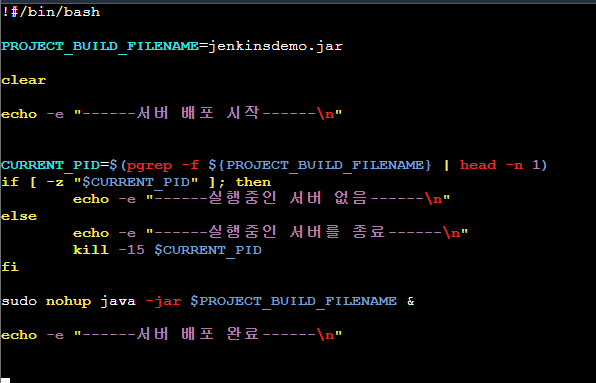
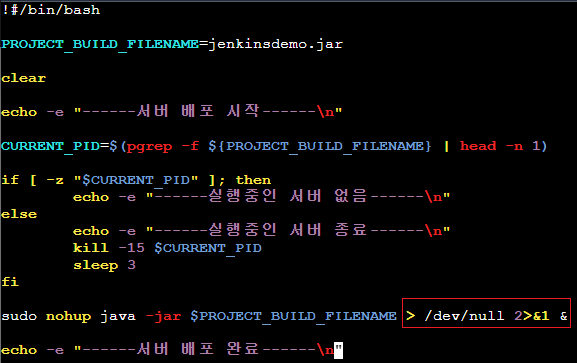
정리

diff --git a/Data/Document/Jenkins [SpringBooot].md b/Data/Document/Jenkins [SpringBooot].md
@@ -14,11 +14,20 @@ WAS서버에 빌드 파일을 전달해 서버 배포 <br>
 1. AWS EC2 Ubuntu 생성 및 환경 설정 [AWS EC2 생성](../Document/EC2.md)
 2. Springboot 프로젝트 생성 [SpringBoot 프로젝트 생성](../Document/Local%20%5BSpringBoot%5D.md)
 3. SpringBoot 프로젝트 Github에 저장
-4. Jenkins 설치 완료 [Jenkins 설치](../Document/Jenkins.md)
+4. Jenkins 설치 완료 [Jenkins 설치](../Document/Jenkins.md)<br>
+
+---
+
+[주의사항]<br>
+현재 실습용 SpringBoot 프로젝트 자바 버전은 openjdk17이다.<br>
+Jenkins서버에서 프로젝트를 빌드할시 openjdk17를 사용한다.<br>
+본인 SpringBoot 프로젝트에 맞춰 자바 버전을 설치 해야된다.<br>
+
+---
 
 ## 환경
 
-1. Jenkins 서버용 EC2
+1. Jenkins 서버용 EC2 [Java SE-17](https://www.oracle.com/java/technologies/javase/jdk17-archive-downloads.html)<br>
 2. WAS 서버용 EC2
    [Java SE-17](https://www.oracle.com/java/technologies/javase/jdk17-archive-downloads.html)<br>
 3. VSCode<br>
@@ -180,6 +189,8 @@ Build폴더자체가 생성되지 않음)<br>
 Jenkins서버에서 빌드한 jar파일을 publish over ssh 플러그인을
 활용하여 WAS 서버에 전달해 배포<br>
 
+### (1) publish over ssh 설정
+
 ![img](../Img/jenkinsprj34.png)<br>
 (플러그인에서 publish over ssh 설치)<br>
 
@@ -208,11 +219,21 @@ Remote Directory : WAS서버에 접속하면 수행할 폴더 장소<br>
 
 ![img](../Img/jenkinsprj39.png)<br>
 (내려보면 Build Steps 항목이 있음<br>
-Add build step을 눌러 Invoke Gradle script 클릭)<br>
+Add build step을 눌러 Execute shell 클릭)<br>
 
 ![img](../Img/jenkinsprj40.png)<br>
-(현재 Springboot 프로젝트내에 gradle Wrapper가 있기때문에<br>
-Use Gradle Wrapper를 클릭하고 Tasks에서 clean build 입력)<br>
+
+> chmod +x gradlew
+
+(gradlew 사용 권한을 주기 위해 입력)<br>
+
+![img](../Img/jenkinsprj54.png)<br>
+(Invoke Gradle script도 찾아 추가한뒤<br>
+Use Gradle Wrapper를 체크 : 현재 Springboot 프로젝트내에 gradle Wrapper가 있음<br>
+그리고 각 tasks에 clean, build 입력)<br>
+
+굳이 이렇게 나눠놓는 이유 : Ec2 프리티어가 느려서 명령어 수행을
+순차적으로 수행하기 위해 구성<br>
 
 ![img](../Img/jenkinsprj41.png)<br>
 (빌드 후 조치에서 "Send build artifacts over SSH"를 클릭)
@@ -231,7 +252,7 @@ WAS 서버의 해당 경로에 publish.sh가 있어야됨<br>
 
 작성후 저장<br>
 
-### (1) was 서버에 publish.sh 스크립트 작성
+### (2) was 서버에 publish.sh 스크립트 작성
 
 ![img](../Img/jenkinsprj43.png)<br>
 (publish.sh 스크립트 생성)<br>
@@ -242,4 +263,60 @@ WAS 서버의 해당 경로에 publish.sh가 있어야됨<br>
 ![img](../Img/jenkinsprj44.png)<br>
 (다음과 같이 입력후 저장) [shell 작성법](../Document/Github%20%5BSpringBoot%5D.md)
 
+---
+
+### [주의사항]
+
+SSH로 원격 스크립트를 실행하게 되면
+stdoutput이 닫히거나 timeout이 발생할때까지 스크립트가 닫히지 않는다.<br>
+그래서 마지막에 배포할때
+\> /dev/null : stdout 출력을 기록하지 않게 /dev/null로 이동<br>
+2>&1 : stderr도 stdout으로 이동시켜
+모든 output을 redirect해준다.<br>
+
+---
+
+<br>
+
 ### (2) 빌드 테스트
+
+---
+
+### [주의사항]
+
+Jenkins 서버는 Ec2 프리 티어 서버여서 속도가 매우 느리다.<br>
+그래서 빌드시 CPU 과부하로 시스템이 멈추는 현상이 발생한다.<br>
+[프리티어 속도 높이기](../Document/Linux.md)
+<br>
+
+---
+
+![img](../Img/jenkinsprj46.png)<br>
+(다음과 같이 느낌표로 unstable 상태이긴 하지만)<br>
+
+![img](../Img/jenkinsprj47.png)<br>
+(정상적으로 서버가 배포 되었다.)<br>
+
+unstable 상태인 이유는<br>
+![img](../Img/jenkinsprj48.png)<br>
+jar 파일을 전송할때 시간 초과가 나기 때문이다.<br>
+
+![img](../Img/jenkinsprj49.png)<br>
+(빌드 후 조치로 다시 가서 파일을 전송하는 부분에 고급을 클릭한다.)<br>
+
+![img](../Img/jenkinsprj50.png)<br>
+(120000 -> 0 으로 변경해 무제한으로 설정하고 저장한다.)<br>
+
+![img](../Img/jenkinsprj51.png)<br>
+(정상적으로 배포가 되는것을 볼 수 있다.)<br>
+
+## 최종 테스트
+
+springboot 프로젝트에서 변경 사항이 생길 경우 자동으로
+배포가 되야한다.<br>
+
+![img](../Img/jenkinsprj55.png)<br>
+(코드를 변경하고 커밋을 해보자.)<br>
+
+![img](../Img/jenkinsprj56.png)<br>
+(잘되는 것을 볼 수 있다.)<br>

diff --git a/Data/Document/Linux.md b/Data/Document/Linux.md
@@ -6,11 +6,25 @@
 ## (1) apt 저장소 변경<br>
 
 ![img](../Img/mirror1.png)<br>
-sudo vi /etc/apt/sources.list 로 진입<br>
+
+> sudo vi /etc/apt/sources.list
+
+sources.list 진입<br>
 
 ## (2) apt 저장소 변경<br>
 
 ![img](../Img/mirror2.png)<br>
 :%s/ap-northeast-2.ec2.archive.ubuntu.com/mirror.kakao.com/ 을 입력후 엔터
 
-## (3) sudo apt-get update<br>
+## (3) sudo apt-get update<br><br>
+
+# [EC2 프리 티어 속도 높이기]
+
+sudo dd if=/dev/zero of=/swapfile bs=128M count=32<br>
+sudo chmod 600 /swapfile<br>
+sudo mkswap /swapfile<br>
+sudo swapon /swapfile<br>
+sudo swapon -s<br>
+sudo vi /etc/fstab (파일열고)<br>
+/swapfile swap swap defaults 0 0 (를 끝 줄에 추가)<br>
+free를 입력해 swapfile이 메모리를 받고 있는지 확인<br>
